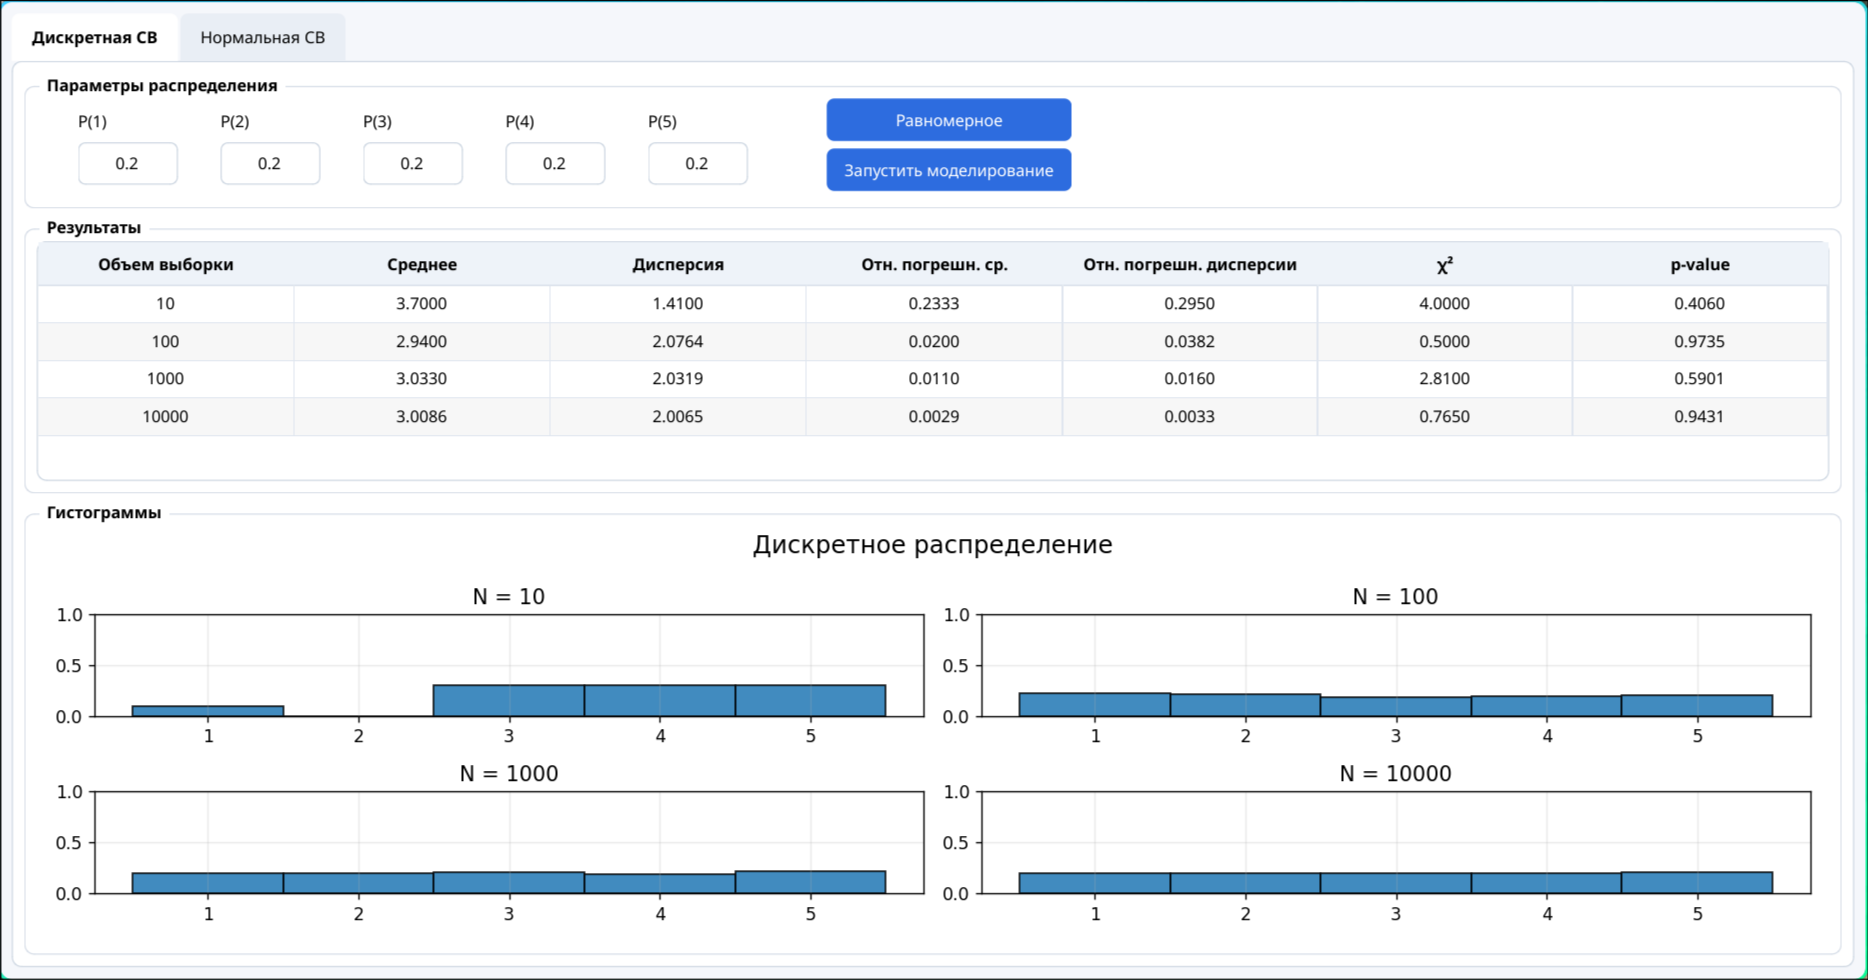
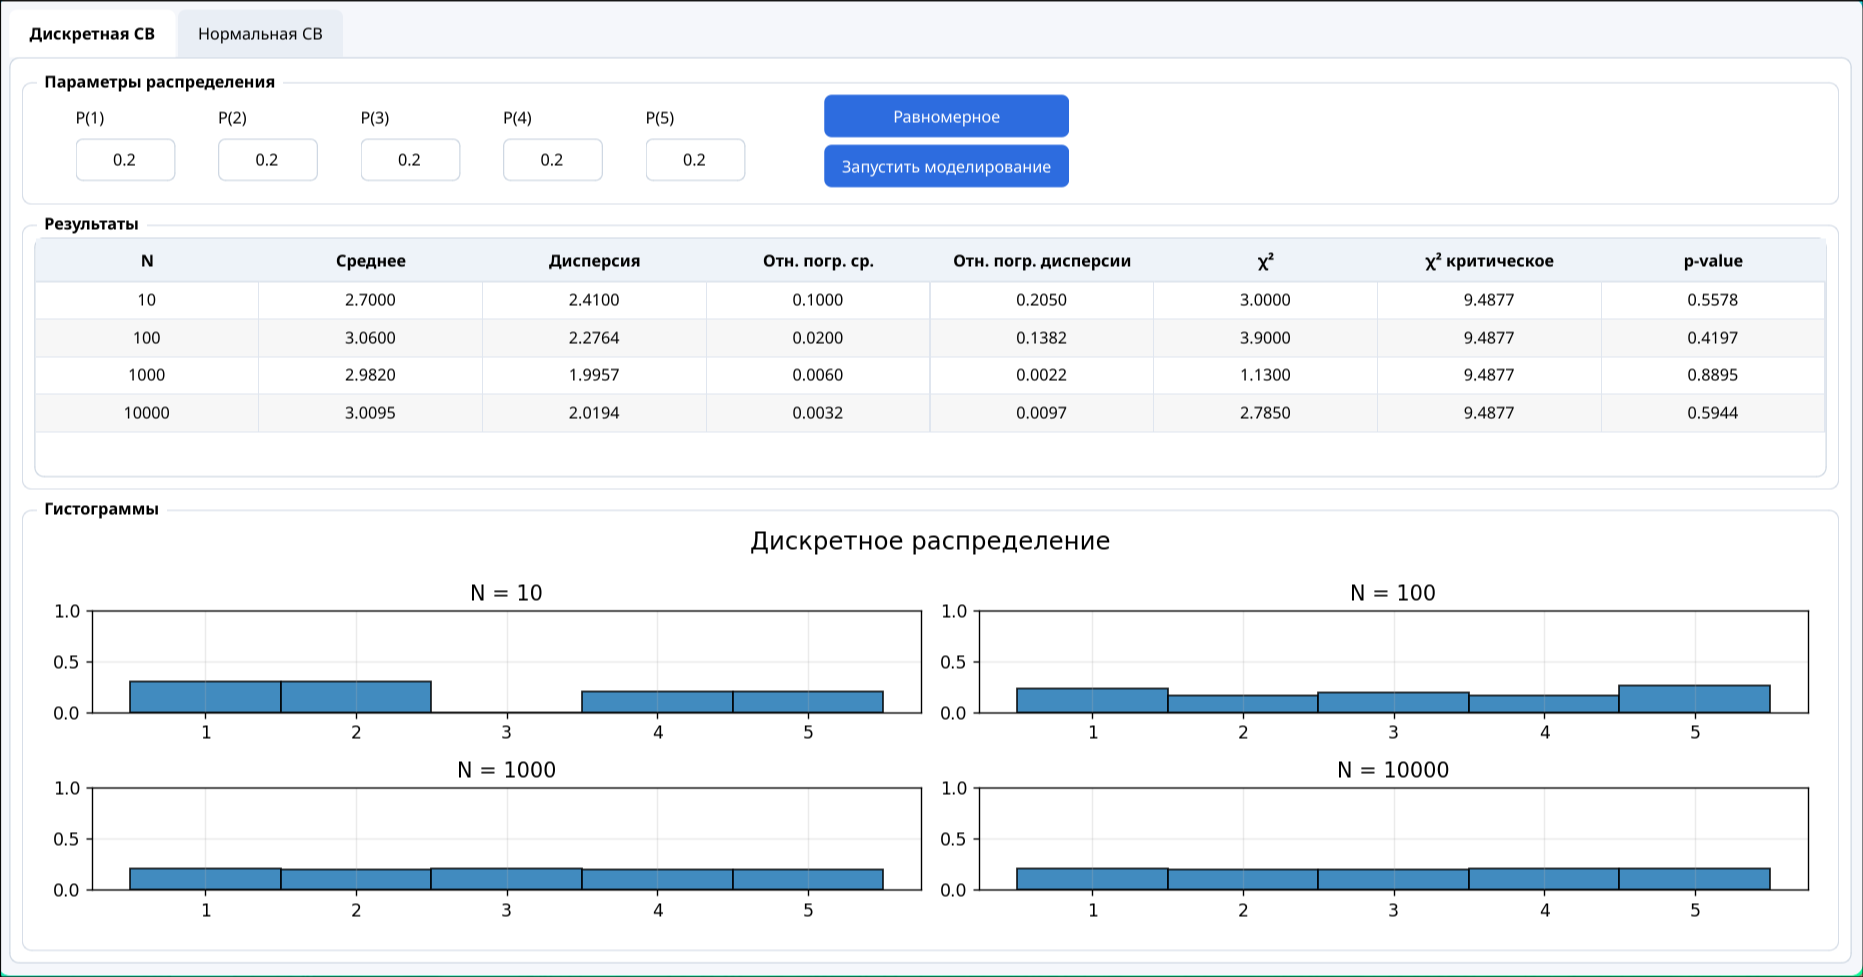
fix lab6

diff --git a/lab06/main.py b/lab06/main.py
@@ -1,6 +1,6 @@
 import sys
 import numpy as np
-from scipy.stats import chisquare, chi2
+from scipy.stats import chisquare, chi2, norm
 import random
 
 from PyQt6.QtWidgets import (
@@ -80,10 +80,7 @@ def analyze_discrete(sample: np.ndarray, n: int, probs: np.ndarray):
 
     p_value = 1 - chi2.cdf(chi_val, df)
 
-    return emp_p, mean, var, rel_mean_err, rel_var_err, chi_val, p_value
-
-from scipy.stats import norm, chi2
-import numpy as np
+    return emp_p, mean, var, rel_mean_err, rel_var_err, chi_val, chi_crit, p_value
 
 def analyze_normal(sample: np.ndarray, n: int, bins: int = 6):
     true_mean = 0.0
@@ -269,14 +266,15 @@ class App(QMainWindow):
         table_box = QGroupBox("Результаты")
         table_layout = QVBoxLayout(table_box)
 
-        self.table = QTableWidget(0, 7)
+        self.table = QTableWidget(0, 8)
         self.table.setHorizontalHeaderLabels([
-            "Объем выборки",
+            "N",
             "Среднее",
             "Дисперсия",
-            "Отн. погрешн. ср.",
-            "Отн. погрешн. дисперсии",
+            "Отн. погр. ср.",
+            "Отн. погр. дисперсии",
             "χ²",
+            "χ² критическое",
             "p-value",
         ])
         self.table.horizontalHeader().setSectionResizeMode(QHeaderView.ResizeMode.Stretch)
@@ -336,7 +334,7 @@ class App(QMainWindow):
 
         for i, n in enumerate(NS):
             sample = generate_discrete(n, self.probs)
-            emp_p, mean, var, rm, rv, chi_sq, p_value = analyze_discrete(sample, n, self.probs)
+            emp_p, mean, var, rm, rv, chi_sq, chi_crit, p_value = analyze_discrete(sample, n, self.probs)
 
             row = self.table.rowCount()
             self.table.insertRow(row)
@@ -348,6 +346,7 @@ class App(QMainWindow):
                 f"{rm:.4f}",
                 f"{rv:.4f}",
                 f"{chi_sq:.4f}",
+                f"{chi_crit:.4f}",                
                 f"{p_value:.4f}",
             ]
             for col, value in enumerate(values):
@@ -385,7 +384,7 @@ class App(QMainWindow):
         controls_layout.addWidget(self.run_normal_btn)
         controls_layout.addStretch()
 
-        self.normal_table = QTableWidget(0, 7)
+        self.normal_table = QTableWidget(0, 8)
         self.normal_table.setHorizontalHeaderLabels([
             "N",
             "Среднее",
@@ -393,6 +392,7 @@ class App(QMainWindow):
             "Отн. погр. ср.",
             "Отн. погр. дисперсии",
             "χ²",
+            "χ² критическое",
             "p-value",
         ])
         self.normal_table.horizontalHeader().setSectionResizeMode(QHeaderView.ResizeMode.Stretch)
@@ -447,6 +447,7 @@ class App(QMainWindow):
                 f"{rm:.4f}",
                 f"{rv:.4f}",
                 f"{chi2_val:.4f}",
+                f"{chi_crit:.4f}",
                 f"{p_value:.4f}",
             ]
 

diff --git a/lab06/laba6.md b/lab06/laba6.md
@@ -25,7 +25,8 @@
 - при маленьком объеме выборки N=10 результаты получаются нестабильными, отклонения от теоретических статистик могут быть как большими, так и вообще могут быть нулевыми
 - При увеличении объема выборки (N=100,1000,10000) результаты стабилизируются, эмпирические среднее и дисперсия практически совпадают с теорией.
 - Относительные погрешности уменьшаются с ростом объема выборки.
-- Критерий χ² показывает согласие распределения выборки с теоретическим. Для больших N p-значение > 0.05. При этом можно заметить, что иногда при N=10000 p-value может опуститься ниже 0.05, тогда как при N=100,1000 такого не происходит. Это показывает, что даже малейшие отклонения от теоретического распределения при большом объеме выборки могут приводить к росту хи квадрат.  
+- Для всех обхемов выборки критерий χ² и значение p-value показывают согласие распределения выборки с теоретическим. При этом можно заметить и неудачные выборки, когда критерии нарушаются, чаще всего такое происходит при минимальном размере N=10
+
 ### **Вывод:**
 - Моделирование дискретного равномерного распределения корректно.
 - Точность растет с увеличением объема выборки.
@@ -41,7 +42,7 @@
 - Для выборки N=10 гистограмма получается шумной, не отражает природу нормального распределения.
 - Для выборки N=100 гистограмма все еще шумная, но уже можно увидеть нормальность распределения.
 - Для N=1000,10000 гистограмма почти полностью совпадает с теоретической кривой плотности.
-- Критерий χ² показывает согласие распределения выборки с теоретическим. Для больших N p-значение > 0.05. При этом можно заметить(как и в случае дискретной случайной величины), что иногда при N=10000 p-value может опуститься ниже 0.05, тогда как при N=100,1000 такого не происходит. Это показывает, что даже малейшие отклонения от теоретического распределения при большом объеме выборки могут приводить к росту хи квадрат.  
+- Также как и в дискретном случае для всех объемов выборки критерий χ² и значение p-value показывают согласие распределения выборки с теоретическим. При этом неудачные выборки генеруются чаще, чем в случае с дискретной равномерно распределенной величиной
 
 ### **Вывод:**
 - Моделирование нормального распределения корректно.
